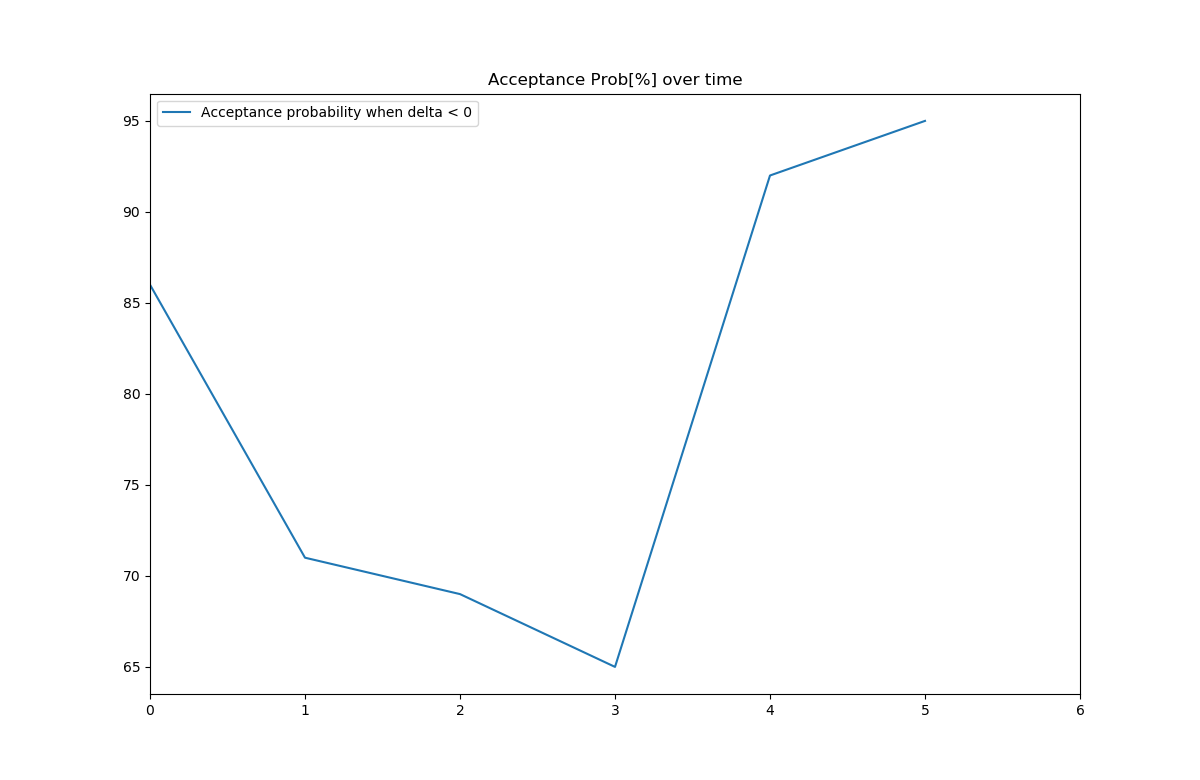
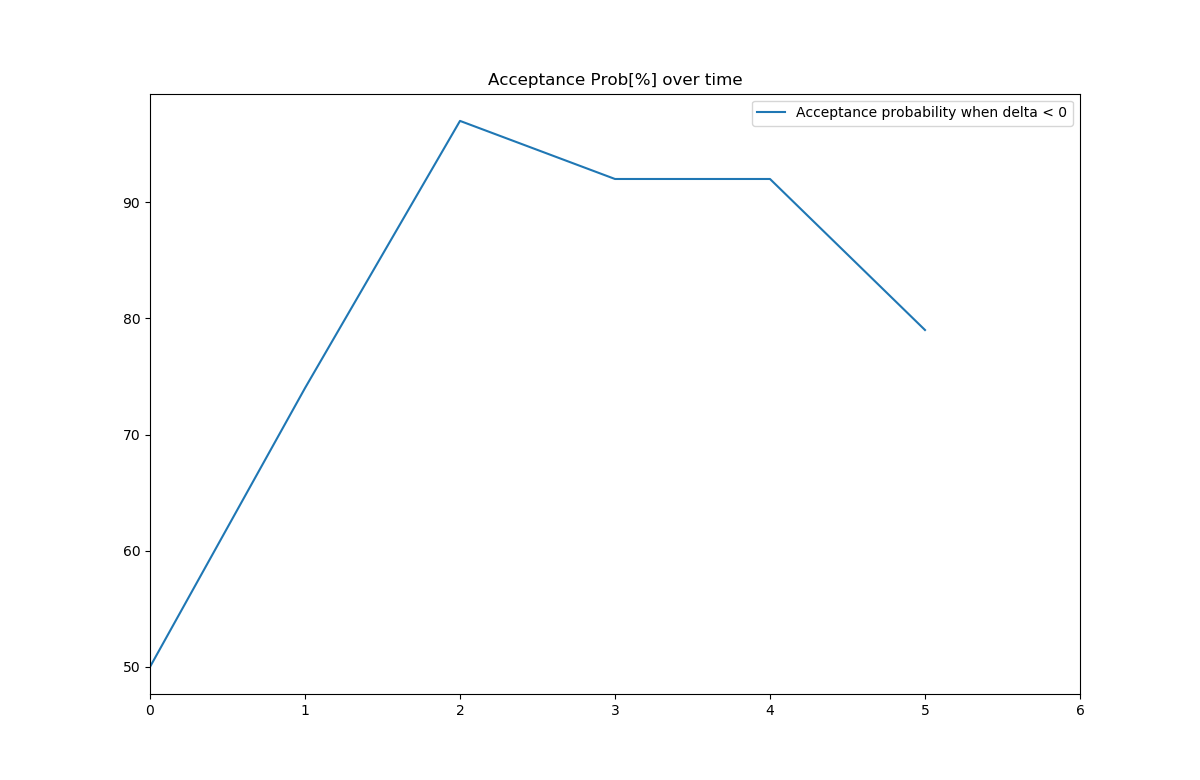
qwgwg

diff --git a/Retargeting/Retargeting/SimulatedAnnealing.cpp b/Retargeting/Retargeting/SimulatedAnnealing.cpp
@@ -77,7 +77,7 @@ Image SimulatedAnnealing::execute(const char* filename, int& good_swaps) {
 	for (unsigned int i = 0; i < this->number_steps; i++) {
 
 		this->temperature = schedule->getTemperature(good_swaps);
-		std::cout << "Aktuelle Temperatur ist " << this->temperature << "\n";
+		//std::cout << "Aktuelle Temperatur ist " << this->temperature << "\n";
 		//calc the energy of our permutation
 		float energy_old_condition = calculateEnergy(dither_data, next_dither_data, permutation_data_output);
 		if (i == 0) {
@@ -275,7 +275,13 @@ bool SimulatedAnnealing::isApplicablePermutation(Image& permutation_data_step, I
 //https://www.arnoldrenderer.com/research/dither_abstract.pdf
 float SimulatedAnnealing::calculateEnergy(Image image_t, Image image_next, Image permutation) {
 
-	float energy = 0;
+	//calculate the position difference for decreasing acceptance probability
+	//with more far away located pixels
+	float sigma_i = 2.1f;
+
+	//float position_delta = () / std::pow(sigma_i, 2);
+
+	float energy = 0.f;
 
 	for (int i = 0; i < image_width; i++) {
 		for (int j = 0; j < image_height; j++) {
@@ -283,7 +289,7 @@ float SimulatedAnnealing::calculateEnergy(Image image_t, Image image_next, Image
 			int permutation_coordinates_y = j + permutation[i][j][1];
 
 			for (int m = 0; m < 1; m++) {
-				energy += std::abs(image_t[permutation_coordinates_x][permutation_coordinates_y][m] - image_next[i][j][m]);
+				energy += (std::abs(image_t[permutation_coordinates_x][permutation_coordinates_y][m] - image_next[i][j][m]));
 			}
 		}
 	}
@@ -298,6 +304,7 @@ bool SimulatedAnnealing::acceptanceProbabilityFunction(const float energy_old_co
 	//right now it is a simple hill climbing algorithm!!!!
 	bool result = false;
 	float delta = energy_new_condition - energy_old_condition;
+	std::cout << "Energy delta is " << delta << "\n";
 
 	if (delta <= 0) {
 
@@ -314,10 +321,10 @@ bool SimulatedAnnealing::acceptanceProbabilityFunction(const float energy_old_co
 		// initialize a uniform distribution between 0 and 1
 		std::uniform_real_distribution<> unif(0., 1.);
 		float currentRandomNumber = unif(gen);
-		cout << "Current random number is: "<< currentRandomNumber << "\n";
+		//cout << "Current random number is: "<< currentRandomNumber << "\n";
 		//prob from our syst
 		float prob = std::exp((-delta)/temperature);
-		std::cout << "Energy delta is " << delta << "\n";
+
 		std::cout << "Decision Probability is " << prob << "\n";
 		
 		//for plotting reasons

diff --git a/Falcor-3.2.1/Bachelor/RayTracer/PathTracer/RenderPasses/Retargeting.cpp b/Falcor-3.2.1/Bachelor/RayTracer/PathTracer/RenderPasses/Retargeting.cpp
@@ -57,7 +57,7 @@ void Retargeting::initialize(RenderContext * pContext, const RenderData * pRende
 
     //textures for retargeting
 
-    Texture::SharedPtr retarget = createTextureFromFile("permutation_texture_101929_swapsLinearyCooldownSchedule.png", false, false, Resource::BindFlags::ShaderResource | /*Resource::BindFlags::UnorderedAccess|*/
+    Texture::SharedPtr retarget = createTextureFromFile("permutation_texture_174629_swapsKirkpatrickCooldownSchedule.png", false, false, Resource::BindFlags::ShaderResource | /*Resource::BindFlags::UnorderedAccess|*/
                                                                                                                                                                                                                                                 Resource::BindFlags::RenderTarget);
     mpComputeProgVars->setTexture("retarget_texture", retarget);
 

diff --git a/Retargeting/Retargeting/helpers.cpp b/Retargeting/Retargeting/helpers.cpp
@@ -145,8 +145,8 @@ bool helpers::fromPermuteToBitmap(Image image_data, FIBITMAP* bitmap, const uint
 
 		for (unsigned int j = 0; j < image_height; j++) {
 
-			color.rgbRed = image_data[i][j][0] + 6;
-			color.rgbGreen = image_data[i][j][1] + 6;
+			color.rgbRed = image_data[i][image_height - 1 - j][0] + 6;
+			color.rgbGreen = image_data[i][image_height - 1 - j][1] + 6;
 			//to store permutation we will only need to save in rg - channel !!
 			color.rgbBlue = 0xFF;
 			color.rgbReserved = i;

diff --git a/Retargeting/Retargeting/Kirkpatrick.cpp b/Retargeting/Retargeting/Kirkpatrick.cpp
@@ -1,10 +1,10 @@
 #include "Kirkpatrick.h"
 
-Kirkpatrick::Kirkpatrick() : T_0(511), mu(0.95), currentTemperature(T_0), quasiequilibrium(4096.f){
+Kirkpatrick::Kirkpatrick() : T_0(511.f), mu(0.8), currentTemperature(T_0), quasiequilibrium(2048.f){
 
 }
 
-Kirkpatrick::Kirkpatrick(double T_0, double mu): currentTemperature(511), quasiequilibrium(4096.f) {
+Kirkpatrick::Kirkpatrick(double T_0, double mu): currentTemperature(511.f), quasiequilibrium(4096) {
 	this->T_0 = T_0;
 	this->mu = mu;
 }

diff --git a/Retargeting/Retargeting/SimulatedAnnealingTest.cpp b/Retargeting/Retargeting/SimulatedAnnealingTest.cpp
@@ -1,7 +1,7 @@
 #include "SimulatedAnnealingTest.h";
 
 
-SimulatedAnnealingTest::SimulatedAnnealingTest() : helper(), number_steps(500000), sa() {
+SimulatedAnnealingTest::SimulatedAnnealingTest() : helper(), number_steps(1000000), sa() {
 	
 	//this->schedule = new ExponentialCoolDown();
 	this->schedule = new Kirkpatrick();
